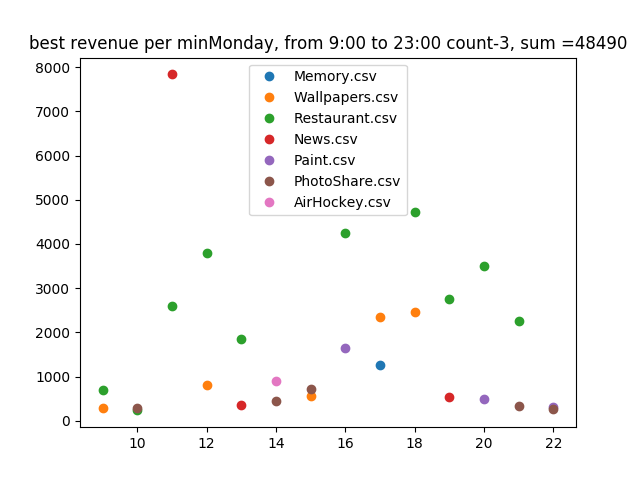
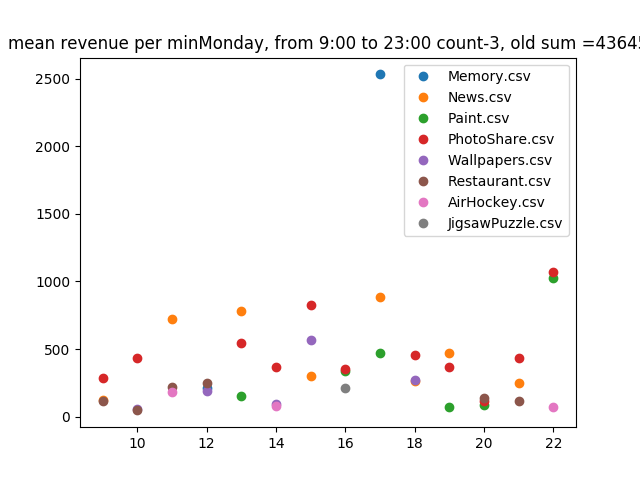
[visualize] fixed graph colors

diff --git a/src/visualisation/visualize.py b/src/visualisation/visualize.py
@@ -15,10 +15,10 @@ def show_apps_sum_revenue(count=3, weekday=0, time_range=(0, 23)):
 
     sum_revenue = int(sum([sum(app['revenue']) for app in apps]))
     ax.set_title(''.join([
-        'best revenue per min',
+        'mean revenue per min',
         day_name, ', from ', str(time_range[0]), ':00 to ', str(time_range[1]),
         ':00 count-', str(count),
-        ', sum =', str(sum_revenue)
+        ', old sum =', str(sum_revenue)
     ]))
     ax.legend()
 
@@ -102,9 +102,12 @@ def sum_revenue(data, file_name):
         revenue = data['Revenue'][index]
         if not hour in sum_full_revenue:
             sum_full_revenue[hour] = 0
-            sum_revenue_per_min[hour] = 0
+            sum_revenue_per_min[hour] = []
         sum_full_revenue[hour] += revenue
-        sum_revenue_per_min[hour] += revenue / (duration or 1)
+        sum_revenue_per_min[hour].append(revenue / (duration or 1))
+
+    for hour in sum_revenue_per_min:
+        sum_revenue_per_min[hour] = mean(sum_revenue_per_min[hour])
 
     for hour in sum_full_revenue:
         plot_data['hours'].append(hour)
@@ -117,3 +120,7 @@ def sum_revenue(data, file_name):
         'revenue_per_min': plot_data['revenue_per_min'],
         'name': file_name
     }
+
+
+def mean(numbers):
+    return float(sum(numbers)) / max(len(numbers), 1)

diff --git a/src/main.py b/src/main.py
@@ -21,9 +21,9 @@ def prepare_data():
 
 def show_best_apps(count):
     for weekday in range(0, 7):
-        visualize.show_apps_sum_revenue(count=count, weekday=6, time_range=[9, 23])
+        visualize.show_apps_sum_revenue(count=count, weekday=weekday, time_range=[9, 23])
 
 
 if __name__ == '__main__':
-    prepare_data()
+    # prepare_data()
     show_best_apps(3)
